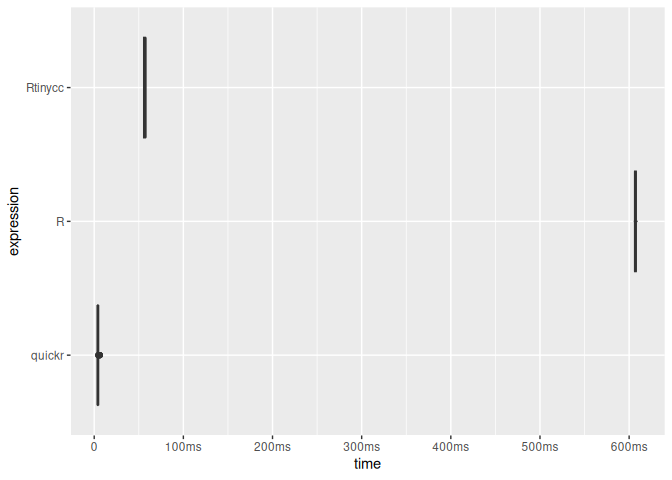
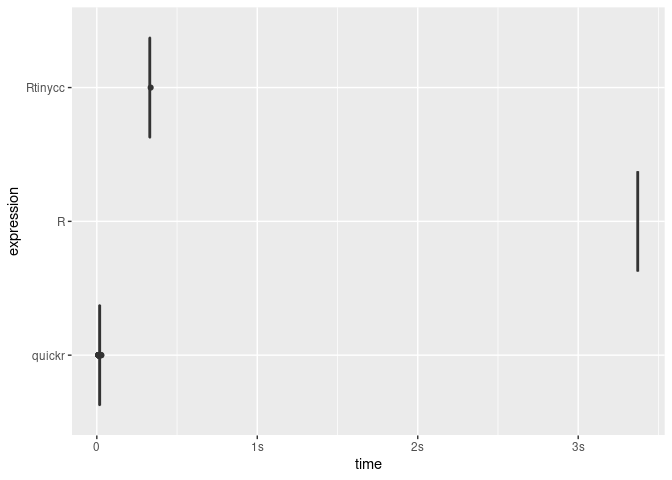
weak references

diff --git a/README.md b/README.md
@@ -3,7 +3,8 @@
 
 # Rtinycc
 
-Builds `TinyCC` `Cli` and Library For `C` Scripting in `R`
+Builds `TinyCC` `Cli` and Library For `C` Scripting in
+`R`
 
 <!-- badges: start -->
 
@@ -59,27 +60,23 @@ it, TCC cannot resolve host symbols (e.g. `RC_free_finalizer`) through
 the dynamic linker. Rtinycc works around this with
 `RC_libtcc_add_host_symbols()`, which registers package-internal C
 functions via `tcc_add_symbol()` before relocation. Any new C function
-referenced by generated TCC code must be added there. <!--
-Windows support (experimental) required solving several interacting
-problems. R 4.2+ links against the Universal CRT (`ucrtbase.dll`) while
-TCC defaults to `msvcrt.dll`; mixing heaps across the two CRTs crashes on
-`free()`. The build system works around this by generating a `.def` file
-from `ucrtbase.dll` and naming it `msvcrt.def`, so all CRT symbols resolve
-from the same runtime. Several CRT functions commonly used in C code
-(`printf`, `snprintf`, `sprintf`) are inline functions in UCRT headers
-rather than direct DLL exports, so TCC's JIT linker cannot resolve them.
-The package's own codegen avoids these functions; user code that needs
-formatted output should use R API functions instead (e.g.
-`Rf_warning()`, `Rprintf()`). Async callbacks and `fork()`-based
-parallelism are not available on Windows.
---> Ownership semantics are explicit. Pointers from `tcc_malloc()` are
-tagged `rtinycc_owned` and can be released with `tcc_free()` (or by
-their R finalizer). Generated struct constructors use a struct-specific
-tag (`struct_<name>`) with an `RC_free_finalizer`; free them with
-`struct_<name>_free()`, not `tcc_free()`. Pointers from `tcc_data_ptr()`
-are tagged `rtinycc_borrowed` and are never freed by Rtinycc. Array
-returns are copied into a fresh R vector; set `free = TRUE` only when
-the C function returns a `malloc`-owned buffer.
+referenced by generated TCC code must be added there. On Windows, the
+build still generates a UCRT-backed `msvcrt.def` so TinyCC resolves CRT
+symbols against `ucrtbase.dll` (R 4.2+ uses UCRT). That avoids cross-CRT
+heap mismatches, but it is **not** the root cause of the segfaults we
+investigated. The crashes were due to lifetime management of external
+pointers and finalizers: multiple externalptr wrappers owning the same
+`TCCState*` led to double finalization when the garbage collector ran.
+The fix is to track ownership explicitly and ensure only one externalptr
+owns a given state. Ownership semantics are explicit. Pointers from
+`tcc_malloc()` are tagged `rtinycc_owned` and can be released with
+`tcc_free()` (or by their R finalizer). Generated struct constructors
+use a struct-specific tag (`struct_<name>`) with an `RC_free_finalizer`;
+free them with `struct_<name>_free()`, not `tcc_free()`. Pointers from
+`tcc_data_ptr()` are tagged `rtinycc_borrowed` and are never freed by
+Rtinycc. Array returns are copied into a fresh R vector; set `free =
+TRUE` only when the C function returns a `malloc`-owned
+buffer.
 
 ## Installation
 
@@ -180,7 +177,7 @@ tcc_read_cstring(ptr)
 tcc_read_bytes(ptr, 5)
 #> [1] 68 65 6c 6c 6f
 tcc_ptr_addr(ptr, hex = TRUE)
-#> [1] "0x61155dfbadf0"
+#> [1] "0x558b07a55810"
 tcc_ptr_is_null(ptr)
 #> [1] FALSE
 tcc_free(ptr)
@@ -211,11 +208,11 @@ through output parameters.
 ptr_ref <- tcc_malloc(.Machine$sizeof.pointer %||% 8L)
 target <- tcc_malloc(8)
 tcc_ptr_set(ptr_ref, target)
-#> <pointer: 0x61155e6f8770>
+#> <pointer: 0x558b07a8e2c0>
 tcc_data_ptr(ptr_ref)
-#> <pointer: 0x61155bfe4830>
+#> <pointer: 0x558b085be750>
 tcc_ptr_set(ptr_ref, tcc_null_ptr())
-#> <pointer: 0x61155e6f8770>
+#> <pointer: 0x558b07a8e2c0>
 tcc_free(target)
 #> NULL
 tcc_free(ptr_ref)
@@ -246,11 +243,11 @@ Pointer types include `ptr` (opaque external pointer), `sexp` (pass a
 `SEXP` directly), and callback signatures like
 `callback:double(double)`.
 
-Array returns use
-`returns = list(type = "integer_array", length_arg = 2, free = TRUE)` to
-copy the result into a new R vector. The `length_arg` is the 1-based
-index of the C argument that carries the array length. Set `free = TRUE`
-when the C function returns a `malloc`-owned buffer.
+Array returns use `returns = list(type = "integer_array", length_arg
+= 2, free = TRUE)` to copy the result into a new R vector. The
+`length_arg` is the 1-based index of the C argument that carries the
+array length. Set `free = TRUE` when the C function returns a
+`malloc`-owned buffer.
 
 ### Simple functions
 
@@ -278,8 +275,8 @@ bench::mark(
 #> # A tibble: 2 × 6
 #>   expression      min   median `itr/sec` mem_alloc `gc/sec`
 #>   <bch:expr> <bch:tm> <bch:tm>     <dbl> <bch:byt>    <dbl>
-#> 1 Rtinycc      29.2ms   31.2ms      27.0   53.98KB     34.8
-#> 2 Rbuiltin    541.3µs    585µs    1625.     9.05KB     28.0
+#> 1 Rtinycc    196.57ms 220.24ms      4.56   53.98KB     6.08
+#> 2 Rbuiltin     2.54ms   3.65ms    258.      9.05KB     3.98
 
 # For performance-sensitive code, move the loop into C and operate on arrays.
 ffi_vec <- tcc_ffi() |>
@@ -308,8 +305,8 @@ bench::mark(
 #> # A tibble: 2 × 6
 #>   expression        min   median `itr/sec` mem_alloc `gc/sec`
 #>   <bch:expr>   <bch:tm> <bch:tm>     <dbl> <bch:byt>    <dbl>
-#> 1 Rtinycc_vec    20.2µs   28.7µs    37718.    39.1KB     26.4
-#> 2 Rbuiltin_vec   17.4µs   18.3µs    54230.    78.2KB     81.5
+#> 1 Rtinycc_vec   122.1µs  155.4µs     6344.    39.1KB     4.42
+#> 2 Rbuiltin_vec   57.5µs   78.8µs    11532.    78.2KB    15.5
 ```
 
 ### Linking external libraries
@@ -372,7 +369,7 @@ ffi <- tcc_ffi() |>
 
 x <- as.integer(1:100) # to avoid ALTREP
 .Internal(inspect(x))
-#> @611560385230 13 INTSXP g0c0 [REF(65535)]  1 : 100 (compact)
+#> @558b0a596da8 13 INTSXP g0c0 [REF(65535)]  1 : 100 (compact)
 ffi$sum_array(x, length(x))
 #> [1] 5050
 
@@ -388,7 +385,7 @@ y[1]
 #> [1] 11
 
 .Internal(inspect(x))
-#> @611560385230 13 INTSXP g0c0 [REF(65535)]  11 : 110 (expanded)
+#> @558b0a596da8 13 INTSXP g0c0 [REF(65535)]  11 : 110 (expanded)
 ```
 
 ### Benchmark
@@ -452,13 +449,13 @@ timings
 #> # A tibble: 3 × 6
 #>   expression      min   median `itr/sec` mem_alloc `gc/sec`
 #>   <bch:expr> <bch:tm> <bch:tm>     <dbl> <bch:byt>    <dbl>
-#> 1 R           605.2ms  605.2ms      1.65     847KB    4.96 
-#> 2 quickr       3.74ms   4.11ms    244.       782KB    4.10 
-#> 3 Rtinycc     55.29ms   57.2ms     17.6      782KB    0.504
+#> 1 R             3.37s    3.37s     0.297     847KB     0   
+#> 2 quickr      10.51ms  17.97ms    60.3       782KB     1.02
+#> 3 Rtinycc    329.04ms 330.06ms     3.02      782KB     0
 plot(timings, type = "boxplot") + bench::scale_x_bench_time(base = NULL)
 ```
 
-<img src="man/figures/README-benchmark-convolve-1.png" width="100%" />
+<img src="man/figures/README-benchmark-convolve-1.png" alt="" width="100%" />
 
 ### Structs and unions
 
@@ -482,15 +479,15 @@ ffi <- tcc_ffi() |>
 
 p1 <- ffi$struct_point_new()
 ffi$struct_point_set_x(p1, 0.0)
-#> <pointer: 0x61156296a2f0>
+#> <pointer: 0x558b0ef88980>
 ffi$struct_point_set_y(p1, 0.0)
-#> <pointer: 0x61156296a2f0>
+#> <pointer: 0x558b0ef88980>
 
 p2 <- ffi$struct_point_new()
 ffi$struct_point_set_x(p2, 3.0)
-#> <pointer: 0x611562fe4e40>
+#> <pointer: 0x558b0841ea60>
 ffi$struct_point_set_y(p2, 4.0)
-#> <pointer: 0x611562fe4e40>
+#> <pointer: 0x558b0841ea60>
 
 ffi$distance(p1, p2)
 #> [1] 5
@@ -535,9 +532,9 @@ ffi <- tcc_ffi() |>
 
 s <- ffi$struct_flags_new()
 ffi$struct_flags_set_active(s, 1L)
-#> <pointer: 0x611561cfe7e0>
+#> <pointer: 0x558b0ba8f2b0>
 ffi$struct_flags_set_level(s, 9L)
-#> <pointer: 0x611561cfe7e0>
+#> <pointer: 0x558b0ba8f2b0>
 ffi$struct_flags_get_active(s)
 #> [1] 1
 ffi$struct_flags_get_level(s)
@@ -761,7 +758,7 @@ sqlite <- tcc_ffi() |>
   tcc_compile()
 
 sqlite$sqlite3_libversion()
-#> [1] "3.45.1"
+#> [1] "3.26.0"
 
 db <- sqlite$open_db()
 sqlite$sqlite3_exec(db, "CREATE TABLE t (id INTEGER, name TEXT);", cb, tcc_callback_ptr(cb), tcc_null_ptr())
@@ -783,6 +780,11 @@ For header-driven bindings, we use `treesitter.c` to parse function
 signatures and generate binding specifications automatically. For
 struct, enum, and global helpers, `tcc_generate_bindings()` handles the
 code generation.
+
+The default mapper is conservative for pointers: `char*` is treated as
+`ptr` because C does not guarantee NUL-terminated strings. If you know a
+parameter is a C string, provide a custom mapper that returns `cstring`
+for that type.
 
 ``` r
 header <- '
@@ -824,7 +826,7 @@ ffi <- tcc_ffi() |>
   tcc_compile()
 
 ffi$struct_point_new()
-#> <pointer: 0x61155c66bd20>
+#> <pointer: 0x558b1104e680>
 ffi$enum_status_OK()
 #> [1] 0
 ffi$global_global_counter_get()
@@ -843,7 +845,9 @@ complex types.
 ### 64-bit integer precision
 
 R represents `i64` and `u64` values as `double`, which loses precision
-beyond $2^{53}$. Values that differ only past that threshold become
+beyond
+![2^{53}](https://latex.codecogs.com/png.image?%5Cdpi%7B110%7D&space;%5Cbg_white&space;2%5E%7B53%7D
+"2^{53}"). Values that differ only past that threshold become
 indistinguishable.
 
 ``` r
@@ -877,11 +881,11 @@ ffi <- tcc_ffi() |>
 o <- ffi$struct_outer_new()
 i <- ffi$struct_inner_new()
 ffi$struct_inner_set_a(i, 42L)
-#> <pointer: 0x611560114da0>
+#> <pointer: 0x558b0b8c1390>
 
 # Write the inner pointer into the outer struct
 ffi$struct_outer_in_addr(o) |> tcc_ptr_set(i)
-#> <pointer: 0x61155c807cf0>
+#> <pointer: 0x558b07961210>
 
 # Read it back through indirection
 ffi$struct_outer_in_addr(o) |>
@@ -910,9 +914,9 @@ ffi <- tcc_ffi() |>
 
 b <- ffi$struct_buf_new()
 ffi$struct_buf_set_data_elt(b, 0L, 0xCAL)
-#> <pointer: 0x611561c080a0>
+#> <pointer: 0x558b0b8c6620>
 ffi$struct_buf_set_data_elt(b, 1L, 0xFEL)
-#> <pointer: 0x611561c080a0>
+#> <pointer: 0x558b0b8c6620>
 ffi$struct_buf_get_data_elt(b, 0L)
 #> [1] 202
 ffi$struct_buf_get_data_elt(b, 1L)
@@ -962,8 +966,8 @@ GPL-3
 
 ## References
 
-- [TinyCC](https://github.com/TinyCC/tinycc)
-- [Bun’s FFI](https://bun.com/docs/runtime/ffi)
-- [CFFI](https://cffi.readthedocs.io/)
-- [RSimpleFFI](https://github.com/sounkou-bioinfo/RSimpleFFI#readme)
-- [CSlug](https://cslug.readthedocs.io/en/latest/)
+  - [TinyCC](https://github.com/TinyCC/tinycc)
+  - [Bun’s FFI](https://bun.com/docs/runtime/ffi)
+  - [CFFI](https://cffi.readthedocs.io/)
+  - [RSimpleFFI](https://github.com/sounkou-bioinfo/RSimpleFFI#readme)
+  - [CSlug](https://cslug.readthedocs.io/en/latest/)
